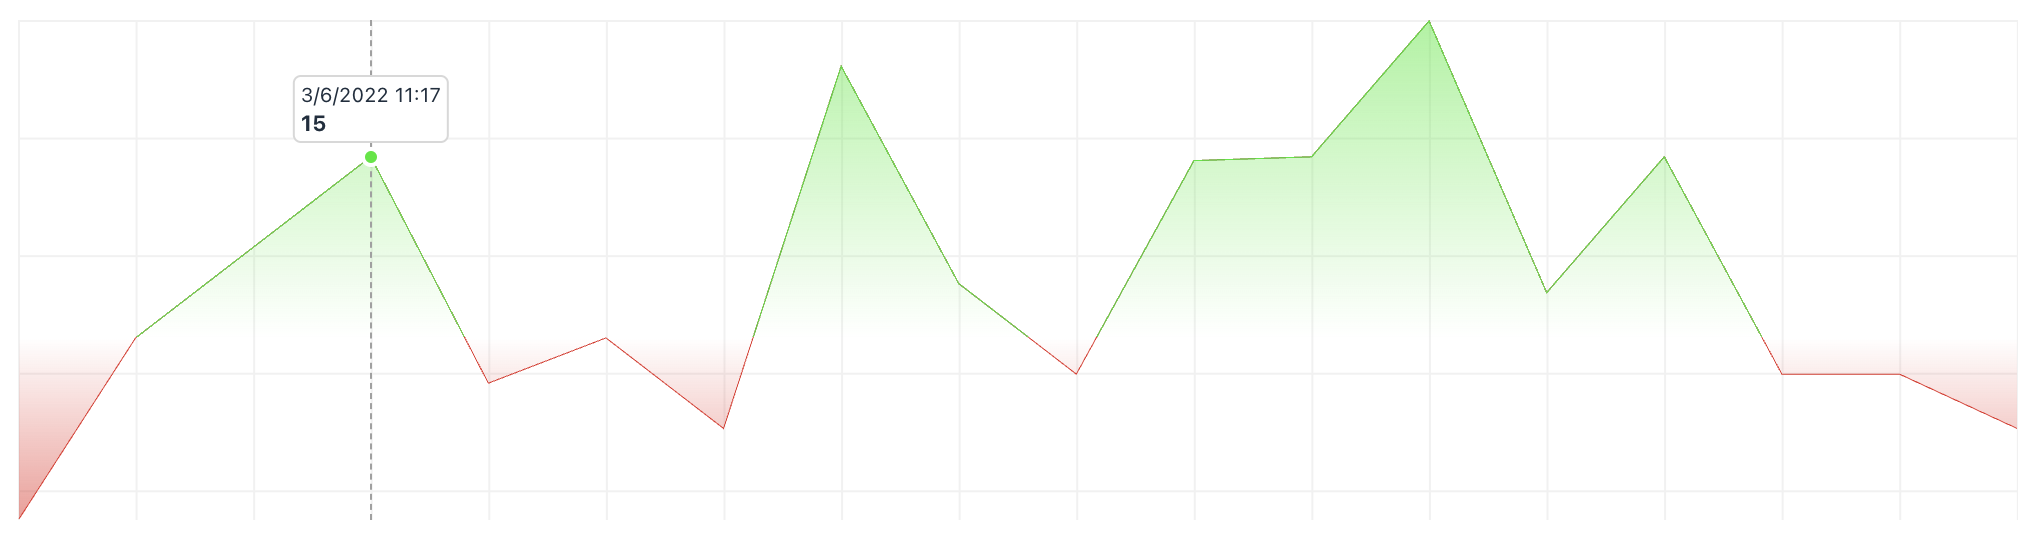
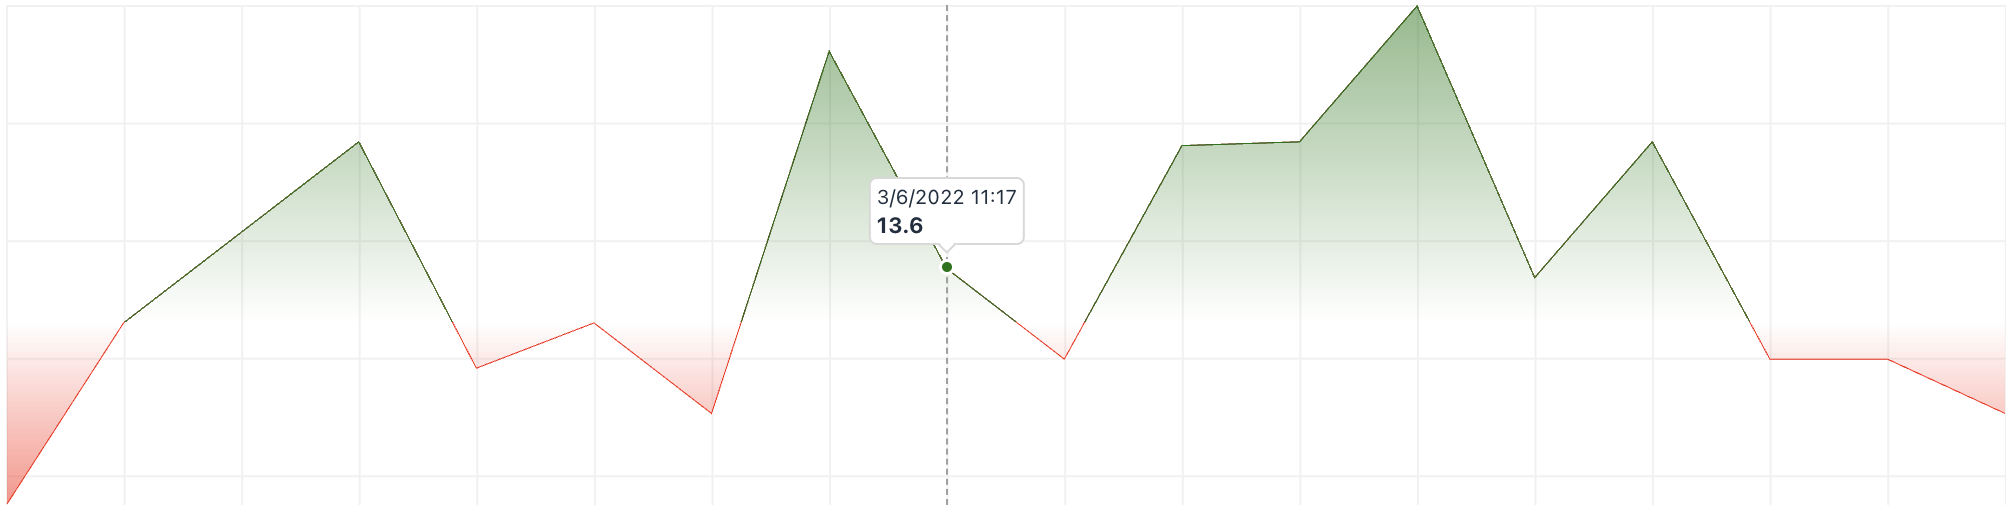
added arrow in pop-up

diff --git a/lib/VueSBChart.vue b/lib/VueSBChart.vue
@@ -13,6 +13,7 @@
 					<div>
 						<div>{{ tsToDate(point.serie.timestamp) }}</div>
 						<div class="serie-value">{{ point.serie.value }}</div>
+						<span class="arrow-down"></span>
 					</div>
 					<span :style="{backgroundColor: `${point.serie.value > props.baseValue ? rgbToHex(upColor) : rgbToHex(downColor)}`}"></span>
 				</div>
@@ -265,7 +266,7 @@ onMounted(() => {
 }
 .serie-wrapper > div {
 	position: absolute;
-	bottom: 10px;
+	bottom: 15px;
 	left: 50%;
 	width: auto;
 	height: auto;
@@ -305,5 +306,30 @@ onMounted(() => {
 img {
 	width: 100%;
 	height: 100%;
+}
+.arrow-down {
+	position: absolute;
+	bottom: -4px;
+	left: 50%;
+}
+.arrow-down:before{
+	content: '';
+	width: 5px; 
+	height: 5px; 
+	border: solid 1px #ddd;
+	background-color: white;
+	transform: translateX(-50%) rotate(45deg);
+	display: block;
+}
+.arrow-down:after{
+	content: '';
+	display: block;
+	position: absolute;
+	background-color: white;
+	width: 12px;
+	height: 5px;
+	top: 0.5px;
+	left: 0;
+	transform: translate(-50%, -50%);
 }
 </style>
